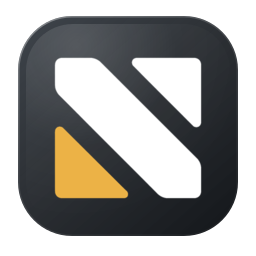
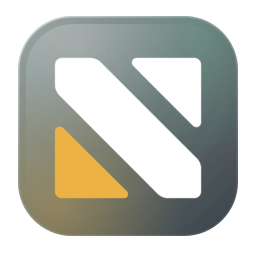
Файлы сайта, сборка 2026-09-11

diff --git a/assets/styles.css b/assets/styles.css
@@ -323,10 +323,10 @@ body.pay #bg::after{display:none}
 }
 
 .brandbtn i{display:block;flex:none;font-style:normal}
-/* Значок сайта намеренно отличается от кнопки расширения: тот же знак немного
-   уменьшен и лежит на тёмной стеклянной плитке. */
+/* Внутри самого сайта знак всегда чистый, без подложки. Стеклянная плитка
+   принадлежит только favicon во вкладке браузера и сюда не переносится. */
 .brandbtn i b{display:block;width:32px;height:32px;
-  background:url("site-icon.png?v=2bb8524a") center/contain no-repeat}
+  background:url("znak.png?v=2155e470") center/contain no-repeat}
 
 /* РЕЙЛ ПРОСТРАНСТВ = разделы сайта. Значения из .sp-rail/.sp-tab расширения:
    плашка pad 4 / радиус 12 / --s-board; вкладка 30px, padding 0 12, радиус 8;
@@ -1302,7 +1302,7 @@ h3{font-size:var(--fs-h3);font-weight:var(--fw-semi);letter-spacing:var(--ls-tit
 
 .paybrand i{display:block;flex:none;font-style:normal}
 .paybrand i b{display:block;width:40px;height:40px;
-  background:url("site-icon.png?v=2bb8524a") center/contain no-repeat}
+  background:url("znak.png?v=2155e470") center/contain no-repeat}
 /* Набор ровно тот же, что у заголовков остальных страниц сайта: та же
    разрядка и то же междустрочие. Своя разрядка «для крупного» делала
    надпись плотнее соседей — она и читалась как чужая.
@@ -1733,7 +1733,7 @@ h3{font-size:var(--fs-h3);font-weight:var(--fw-semi);letter-spacing:var(--ls-tit
   font-weight:var(--fw-semi);line-height:var(--lh-title);letter-spacing:var(--ls-title)}
 .brand i{display:block;flex:none;font-style:normal}
 .brand i b{display:block;width:22px;height:22px;
-  background:url("site-icon.png?v=2bb8524a") center/contain no-repeat}
+  background:url("znak.png?v=2155e470") center/contain no-repeat}
 @media (max-width:860px){.foot__cols{grid-template-columns:1fr 1fr}}
 @media (max-width:520px){.foot__cols{grid-template-columns:1fr}}
 
